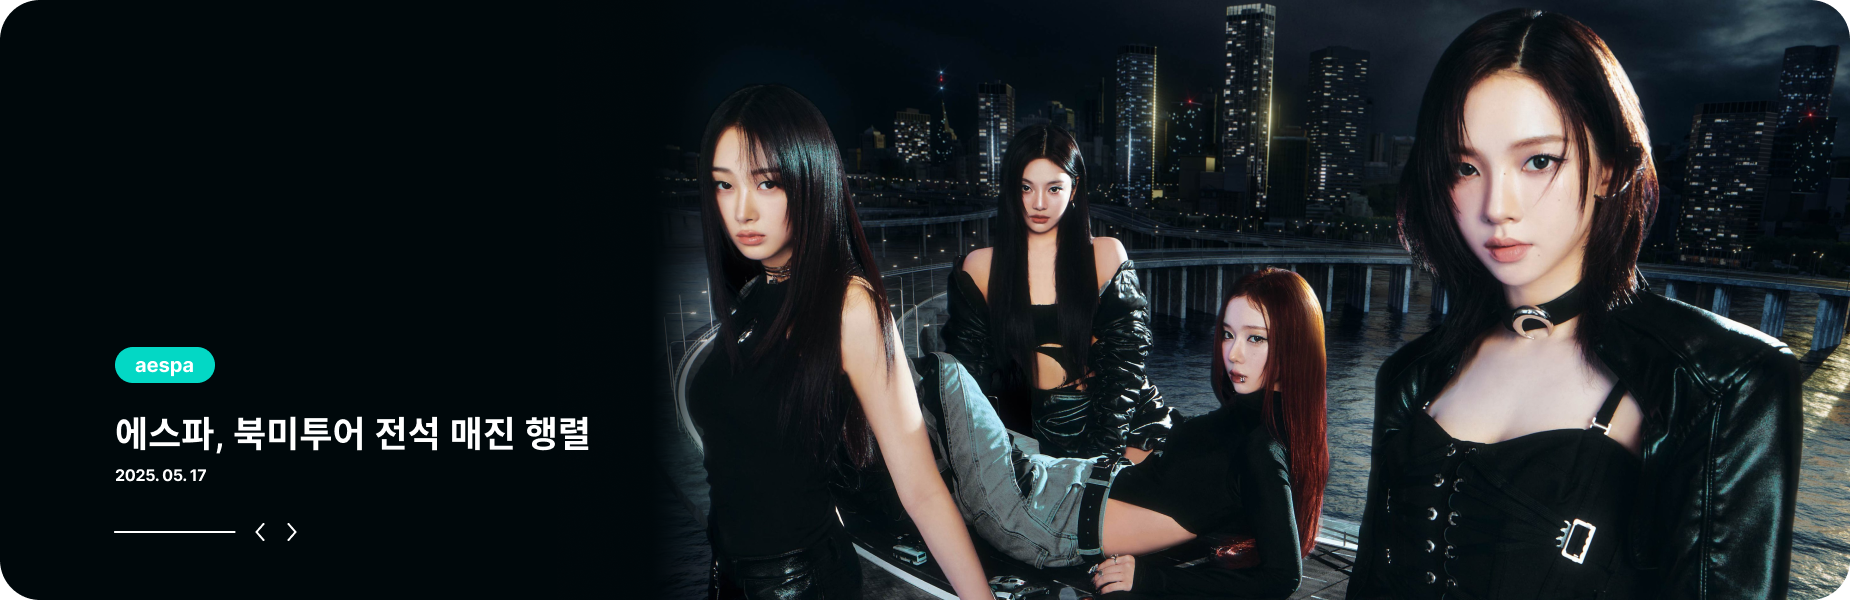
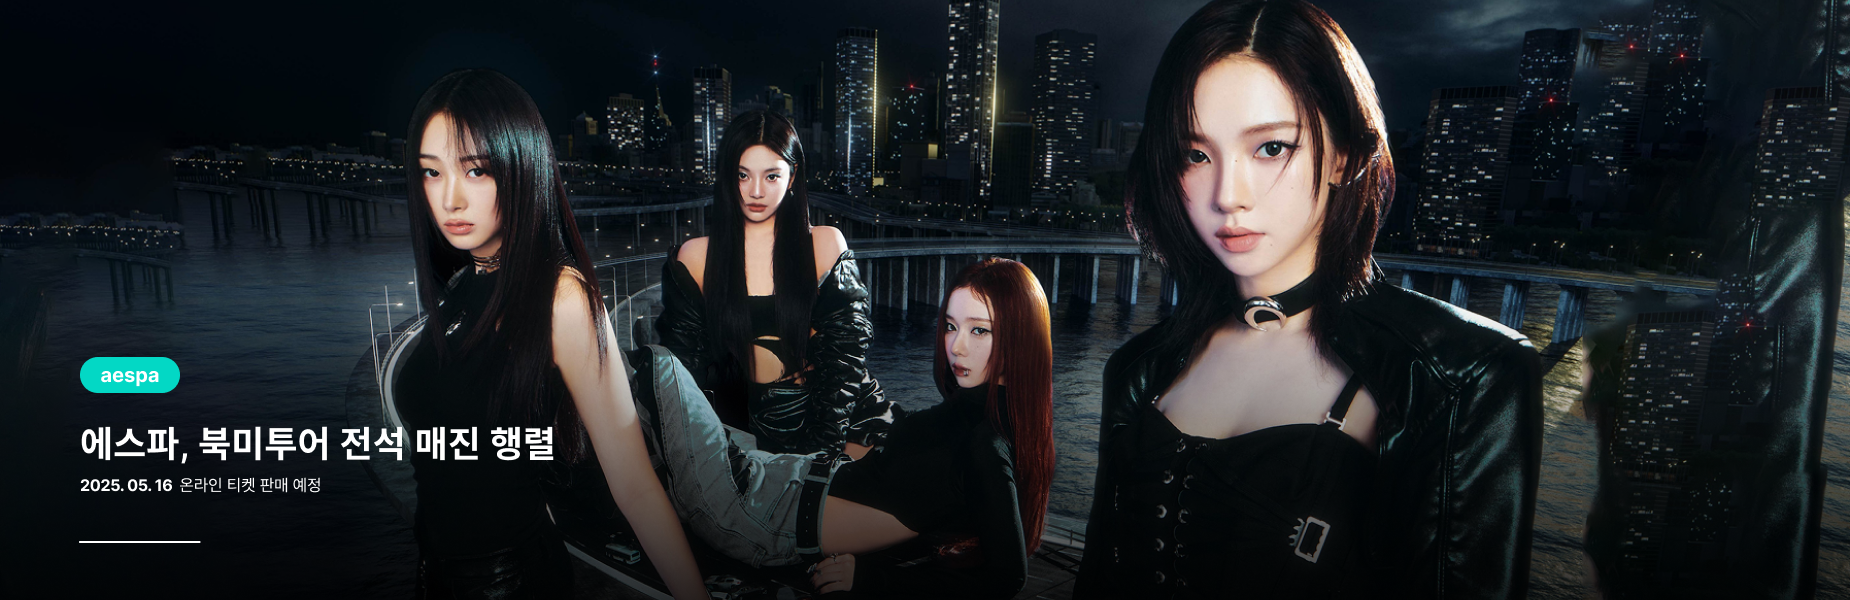
main slider commit

diff --git a/styles/responsive.css b/styles/responsive.css
@@ -407,9 +407,27 @@
     font-size: 2.2rem;
   }
 }
+@media screen and (max-width: 1440px) {
+  .main_visual .single-item .slick-prev,
+  .main_visual .single-item .slick-next {
+    bottom: 6%;
+    width: 20px;
+  }
+  .main_visual .single-item .slick-prev.slick-prev,
+  .main_visual .single-item .slick-next.slick-prev {
+    left: 11%;
+  }
+  .main_visual .single-item .slick-prev.slick-next,
+  .main_visual .single-item .slick-next.slick-next {
+    left: 13%;
+  }
+}
 @media screen and (max-width: 1023px) {
   .main_visual {
     padding-top: 60px;
+  }
+  .main_visual .single-item {
+    border-radius: 30px;
   }
   .artist_contents {
     padding: 50px 0;
@@ -435,6 +453,30 @@
   .main_visual .single-item {
     margin: 0 20px 20px 20px;
   }
+  .main_visual .single-item .mainVisual_slider img:nth-child(1) {
+    display: none;
+  }
+  .main_visual .single-item .mainVisual_slider img:nth-child(2) {
+    display: block;
+  }
+  .main_visual .single-item .slick-prev,
+  .main_visual .single-item .slick-next {
+    bottom: 9.5%;
+    width: 25px;
+    height: 25px;
+  }
+  .main_visual .single-item .slick-prev.slick-prev,
+  .main_visual .single-item .slick-next.slick-prev {
+    left: 25%;
+  }
+  .main_visual .single-item .slick-prev.slick-next,
+  .main_visual .single-item .slick-next.slick-next {
+    left: 29%;
+  }
+  .main_visual .single-item .slick-prev::before,
+  .main_visual .single-item .slick-next::before {
+    font-size: calc(7px + 0.8vw);
+  }
 }
 @media screen and (max-width: 670px) {
   .artist_contents {
@@ -458,6 +500,15 @@
   }
 }
 @media screen and (max-width: 500px) {
+  .main_visual .single-item {
+    border-radius: 25px;
+  }
+  .main_visual .single-item .slick-prev,
+  .main_visual .single-item .slick-next {
+    bottom: 8.6%;
+    width: 20px;
+    height: 20px;
+  }
   .artist_contents {
     padding: 40px 0;
   }

diff --git a/styles/contents.css b/styles/contents.css
@@ -9,40 +9,50 @@ img {
 }
 .main_visual .single-item {
   margin: 0 35px 35px 35px;
+  border-radius: 40px;
+  overflow: hidden;
+  font-size: 0;
 }
 .main_visual .single-item .mainVisual_slider {
   overflow: hidden;
+  height: 100%;
+  width: 100%;
 }
-.main_visual .single-item .mainVisual_slider li img {
+.main_visual .single-item .mainVisual_slider img {
   max-width: 100%;
-  padding: 0 0 30px 0;
-  cursor: pointer;
+  width: 100%;
+  object-fit: cover;
+}
+.main_visual .single-item .mainVisual_slider img:nth-child(1) {
+  display: inline-block;
+}
+.main_visual .single-item .mainVisual_slider img:nth-child(2) {
+  display: none;
 }
 .main_visual .slick-prev,
 .main_visual .slick-next {
   position: absolute;
   z-index: 10;
   top: initial;
-  bottom: 10%;
-  width: 30px;
-  height: 30px;
+  bottom: 8%;
+  width: 25px;
+  height: 25px;
   -webkit-transform: translate(0);
   -ms-transform: translate(0);
   transform: translate(0);
-  border: 1px solid #000;
 }
 .main_visual .slick-prev.slick-prev,
 .main_visual .slick-next.slick-prev {
-  left: 13.2%;
+  left: 11.5%;
 }
 .main_visual .slick-prev.slick-next,
 .main_visual .slick-next.slick-next {
-  left: 15%;
+  left: 13.5%;
 }
 .main_visual .slick-prev::before,
 .main_visual .slick-next::before {
   font-family: "fontawesome";
-  font-size: calc(5px + 0.9vw);
+  font-size: calc(4px + 0.8vw);
   color: #fff;
   opacity: 1;
 }
@@ -579,6 +589,9 @@ img {
 }
 .chart_section.detailinfo_chart .wrapper .chart_list li:hover {
   height: inherit;
+}
+.chart_section.detailinfo_chart .wrapper .chart_list li:hover .music_album p {
+  color: #999;
 }
 
 .chart_section .wrapper .chart_head {

diff --git a/styles/_res_main.scss b/styles/_res_main.scss
@@ -26,10 +26,30 @@
     }
   }
 }
+@media screen and (max-width: 1440px) {
+  .main_visual {
+    .single-item {
+      .slick-prev,
+      .slick-next {
+        bottom: 6%;
+        width: 20px;
+        &.slick-prev {
+          left: 11%;
+        }
+        &.slick-next {
+          left: 13%;
+        }
+      }
+    }
+  }
+}
 
 @media screen and (max-width: 1023px) {
   .main_visual {
     padding-top: map-get($headerHeight, height_mb);
+    .single-item {
+      border-radius: 30px;
+    }
   }
 
   // common artist_list
@@ -64,6 +84,32 @@
   .main_visual {
     .single-item {
       margin: 0 20px 20px 20px;
+      .mainVisual_slider {
+        img {
+          &:nth-child(1) {
+            display: none;
+          }
+          &:nth-child(2) {
+            display: block;
+          }
+        }
+      }
+      .slick-prev,
+      .slick-next {
+        bottom: 9.5%;
+        width: 25px;
+        height: 25px;
+        &.slick-prev {
+          left: 25%;
+        }
+        &.slick-next {
+          left: 29%;
+        }
+
+        &::before {
+          font-size: calc(7px + 0.8vw);
+        }
+      }
     }
   }
 }
@@ -98,6 +144,18 @@
 }
 
 @media screen and (max-width: 500px) {
+  .main_visual {
+    .single-item {
+      border-radius: 25px;
+      .slick-prev,
+      .slick-next {
+        bottom: 8.6%;
+        width: 20px;
+        height: 20px;
+      }
+    }
+  }
+
   // common artist_list
   .artist_contents {
     padding: 40px 0;

diff --git a/styles/_index.scss b/styles/_index.scss
@@ -10,13 +10,22 @@ img {
   padding-top: map-get($map: $headerHeight, $key: height_pc);
   .single-item {
     margin: 0 35px 35px 35px;
+    border-radius: 40px;
+    overflow: hidden;
+    font-size: 0;
     .mainVisual_slider {
       overflow: hidden;
-      li {
-        img {
-          max-width: 100%;
-          padding: 0 0 30px 0;
-          cursor: pointer;
+      height: 100%;
+      width: 100%;
+      img {
+        max-width: 100%;
+        width: 100%;
+        object-fit: cover;
+        &:nth-child(1) {
+          display: inline-block;
+        }
+        &:nth-child(2) {
+          display: none;
         }
       }
     }
@@ -27,24 +36,22 @@ img {
     position: absolute;
     z-index: 10;
     top: initial;
-    bottom: 10%;
-    width: 30px;
-    height: 30px;
-    // border-radius: 50%;
+    bottom: 8%;
+    width: 25px;
+    height: 25px;
     -webkit-transform: translate(0);
     -ms-transform: translate(0);
     transform: translate(0);
-    border: 1px solid #000;
     &.slick-prev {
-      left: 13.2%;
+      left: 11.5%;
     }
     &.slick-next {
-      left: 15%;
+      left: 13.5%;
     }
 
     &::before {
       font-family: "fontawesome";
-      font-size: calc(5px + 0.9vw);
+      font-size: calc(4px + 0.8vw);
       color: #fff;
       opacity: 1;
     }

diff --git a/index.html b/index.html
@@ -113,15 +113,19 @@
       <div class="single-item">
         <div class="mainVisual_slider">
           <img src="./imgs/main_slider1.png" alt="mainVisual_slider1" />
+          <img src="./imgs/main_slider1_m.png" alt="mainVisual_slider1" />
         </div>
         <div class="mainVisual_slider">
           <img src="./imgs/main_slider2.png" alt="mainVisual_slider2" />
+          <img src="./imgs/main_slider2_m.png" alt="mainVisual_slider1" />
         </div>
         <div class="mainVisual_slider">
           <img src="./imgs/main_slider3.png" alt="mainVisual_slider3" />
+          <img src="./imgs/main_slider3_m.png" alt="mainVisual_slider1" />
         </div>
         <div class="mainVisual_slider">
           <img src="./imgs/main_slider4.png" alt="mainVisual_slider4" />
+          <img src="./imgs/main_slider4_m.png" alt="mainVisual_slider1" />
         </div>
       </div>
     </section>

diff --git a/styles/_chart.scss b/styles/_chart.scss
@@ -417,6 +417,11 @@
 
           &:hover {
             height: inherit;
+            .music_album {
+              p {
+                color: map-get($map: $color, $key: gray_9);
+              }
+            }
           }
         }
       }
